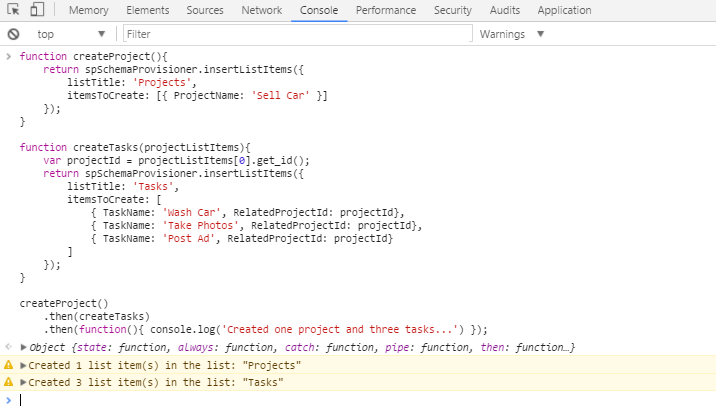
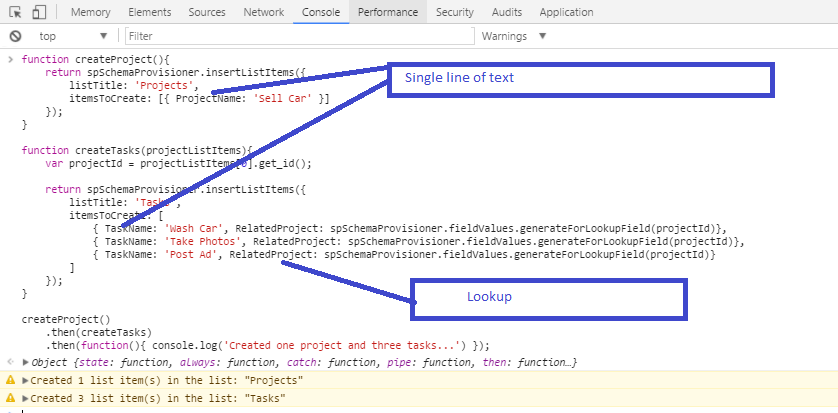
Created helpers to set field values

Changed region(s): [[0.0, 0.0, 1.0, 0.9879]]

diff --git a/data-generator/spschema-provisioner.js b/data-generator/spschema-provisioner.js
@@ -2,6 +2,7 @@
     window.spSchemaProvisioner = window.spSchemaProvisioner || {};
     window.spSchemaProvisioner.generateDataStore = generateDataStore;
     window.spSchemaProvisioner.insertListItems = insertListItems;
+    window.spSchemaProvisioner.fieldValues = {};
 
     var fieldAttributeValuesValidation = {
         AppendOnly: function (val) {
@@ -373,16 +374,7 @@
             var listItem = list.addItem(new SP.ListItemCreationInformation());
 
             for (var propName in item) {
-                if (propName.endsWith("Id")) {
-                    //assume lookup column
-                    var lookupID = item[propName];
-                    propName = propName.replace("Id", "");
-                    var lookupVal = new SP.FieldLookupValue();
-                    lookupVal.set_lookupId(lookupID)
-                    listItem.set_item(propName, lookupVal);
-                } else {
-                    listItem.set_item(propName, item[propName]);
-                }
+                listItem.set_item(propName, item[propName]);
                 listItem.update();
                 ctx.load(listItem);
                 listItems.push(listItem);
@@ -474,6 +466,23 @@
             });
     }
 
+    window.spSchemaProvisioner.fieldValues.generateForLookupField = function(lookupID) {
+        var lookupVal = new SP.FieldLookupValue();
+        lookupVal.set_lookupId(lookupID);
+        return lookupVal;
+    }
+
+    window.spSchemaProvisioner.fieldValues.generateForPersonField = function(userID) {
+        var lookupVal = new SP.FieldUserValue();
+        lookupVal.set_lookupId(userID);
+        return lookupVal;
+    }
+
+    window.spSchemaProvisioner.fieldValues.generateForPersonMultiField = function(array_of_userID) {
+        return _.map(array_of_userID, function(userID){
+            return window.spSchemaProvisioner.fieldValues.generateForPersonField(userID);
+        });
+    }
 })();
 
 

diff --git a/data-generator/examples/generate-listitems-snippet.js b/data-generator/examples/generate-listitems-snippet.js
@@ -10,9 +10,9 @@ function createTasks(projectListItems){
 	return spSchemaProvisioner.insertListItems({
 	    listTitle: 'Tasks',
 	    itemsToCreate: [
-	    	{ TaskName: 'Wash Car', RelatedProjectId: projectId},
-	    	{ TaskName: 'Take Photos', RelatedProjectId: projectId},
-	    	{ TaskName: 'Post Ad', RelatedProjectId: projectId}
+	    	{ TaskName: 'Wash Car', RelatedProject: spSchemaProvisioner.fieldValues.generateForLookupField(projectId)},
+	    	{ TaskName: 'Take Photos', RelatedProject: spSchemaProvisioner.fieldValues.generateForLookupField(projectId)},
+	    	{ TaskName: 'Post Ad', RelatedProject: spSchemaProvisioner.fieldValues.generateForLookupField(projectId)}
 	    ]
 	});
 }
